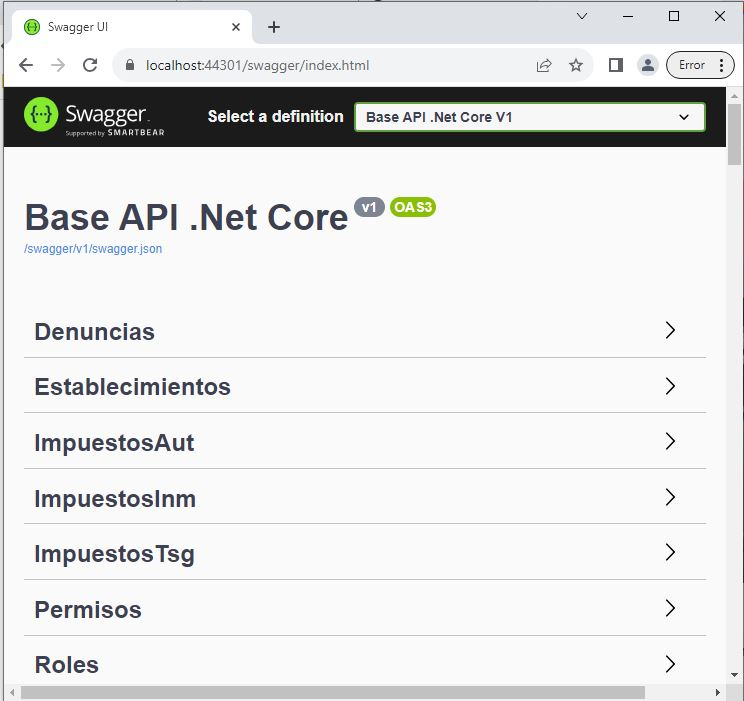
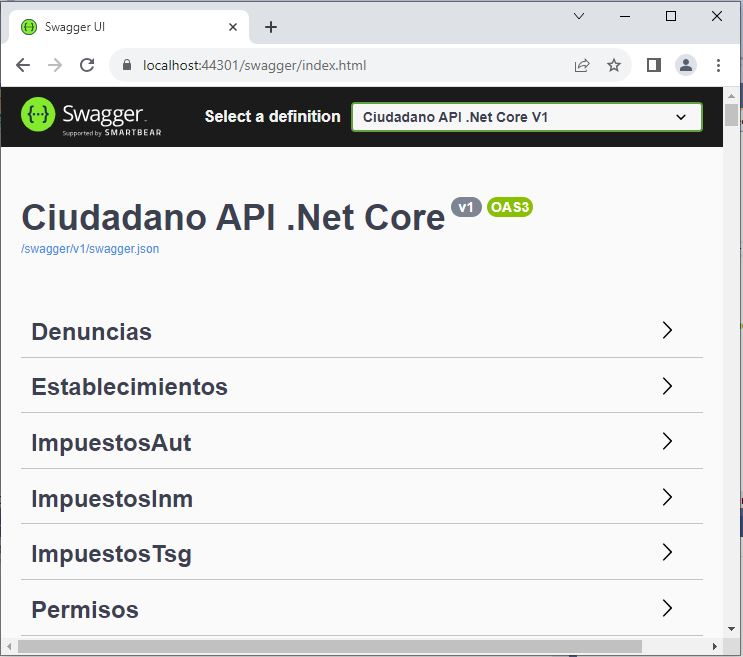
Modificar titulo del Swagger

diff --git a/Ciudadano.Api/Startup.cs b/Ciudadano.Api/Startup.cs
@@ -67,7 +67,7 @@ namespace Ciudadano.Api
 
             services.AddSwaggerGen(c =>
             {
-                c.SwaggerDoc("v1", new OpenApiInfo { Title = "Base API .Net Core", Version = "v1" });
+                c.SwaggerDoc("v1", new OpenApiInfo { Title = "Ciudadano API .Net Core", Version = "v1" });
                 c.CustomSchemaIds(i => i.FullName);
             });
         }
@@ -87,7 +87,7 @@ namespace Ciudadano.Api
             // specifying the Swagger JSON endpoint.
             app.UseSwaggerUI(c =>
             {
-                c.SwaggerEndpoint("/swagger/v1/swagger.json", "Base API .Net Core V1");
+                c.SwaggerEndpoint("/swagger/v1/swagger.json", "Ciudadano API .Net Core V1");
             });
 
             app.UseHttpsRedirection();
